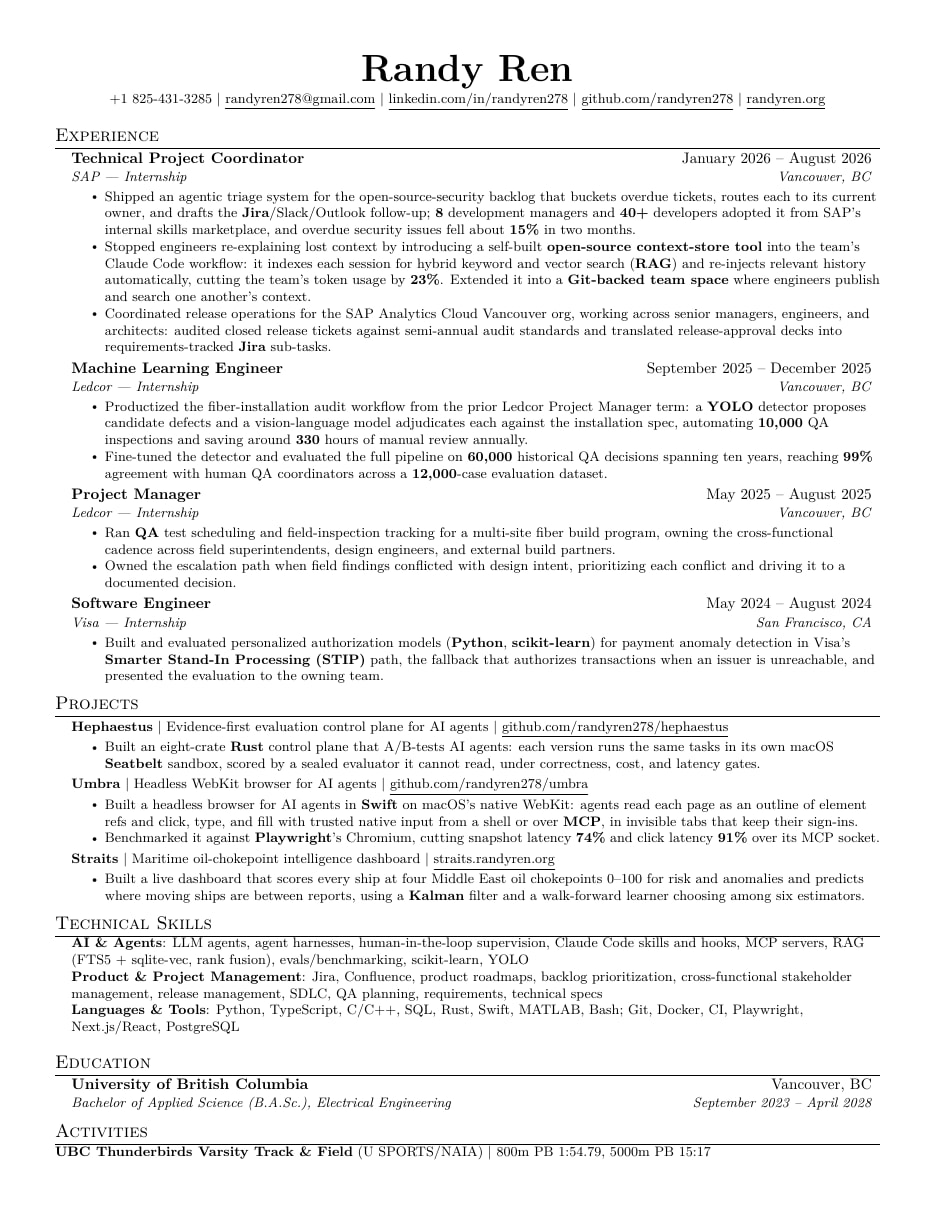
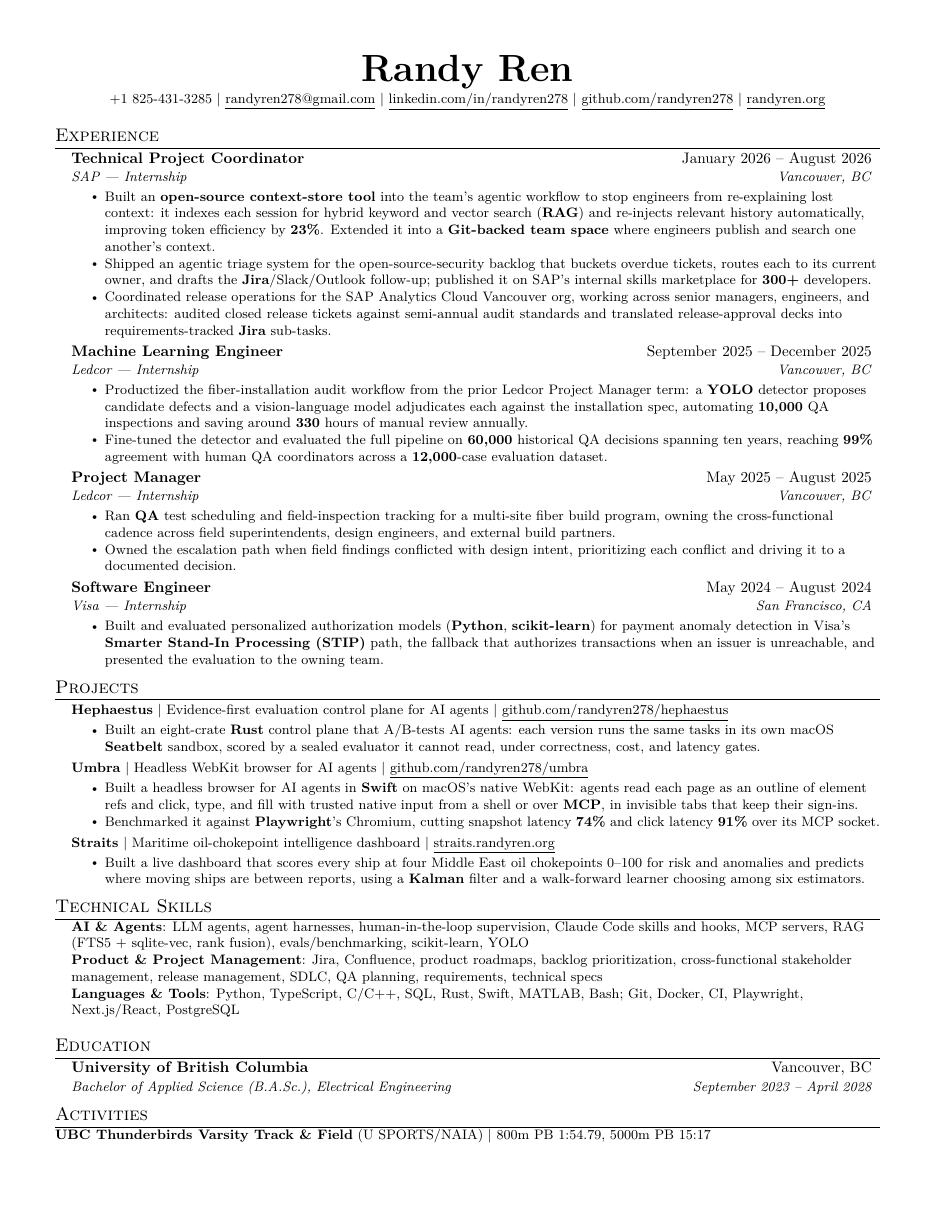
content(resume): refresh résumé PDF and preview with the Oct 22 SAP bullets
Regenerated the 935x1210 JPG and 480x621 WebP previews from the new
PDF's first page and bumped RESUME_VERSION to its SHA-256 prefix so
cached copies refresh. Build and both smoke modes pass.

Changed region(s): [[0.062, 0.1529, 0.9305, 0.9785]]

diff --git a/site/src/content/data.ts b/site/src/content/data.ts
@@ -109,7 +109,7 @@ github    randyren278
 linkedin  /in/randyren278
 location  VANCOUVER, BC, PT/GMT-8`;
 
-const RESUME_VERSION = '389a5fff0693';
+const RESUME_VERSION = 'cb845b3c1ef3';
 
 export const RESUME = {
   name: 'Randy Ren',
